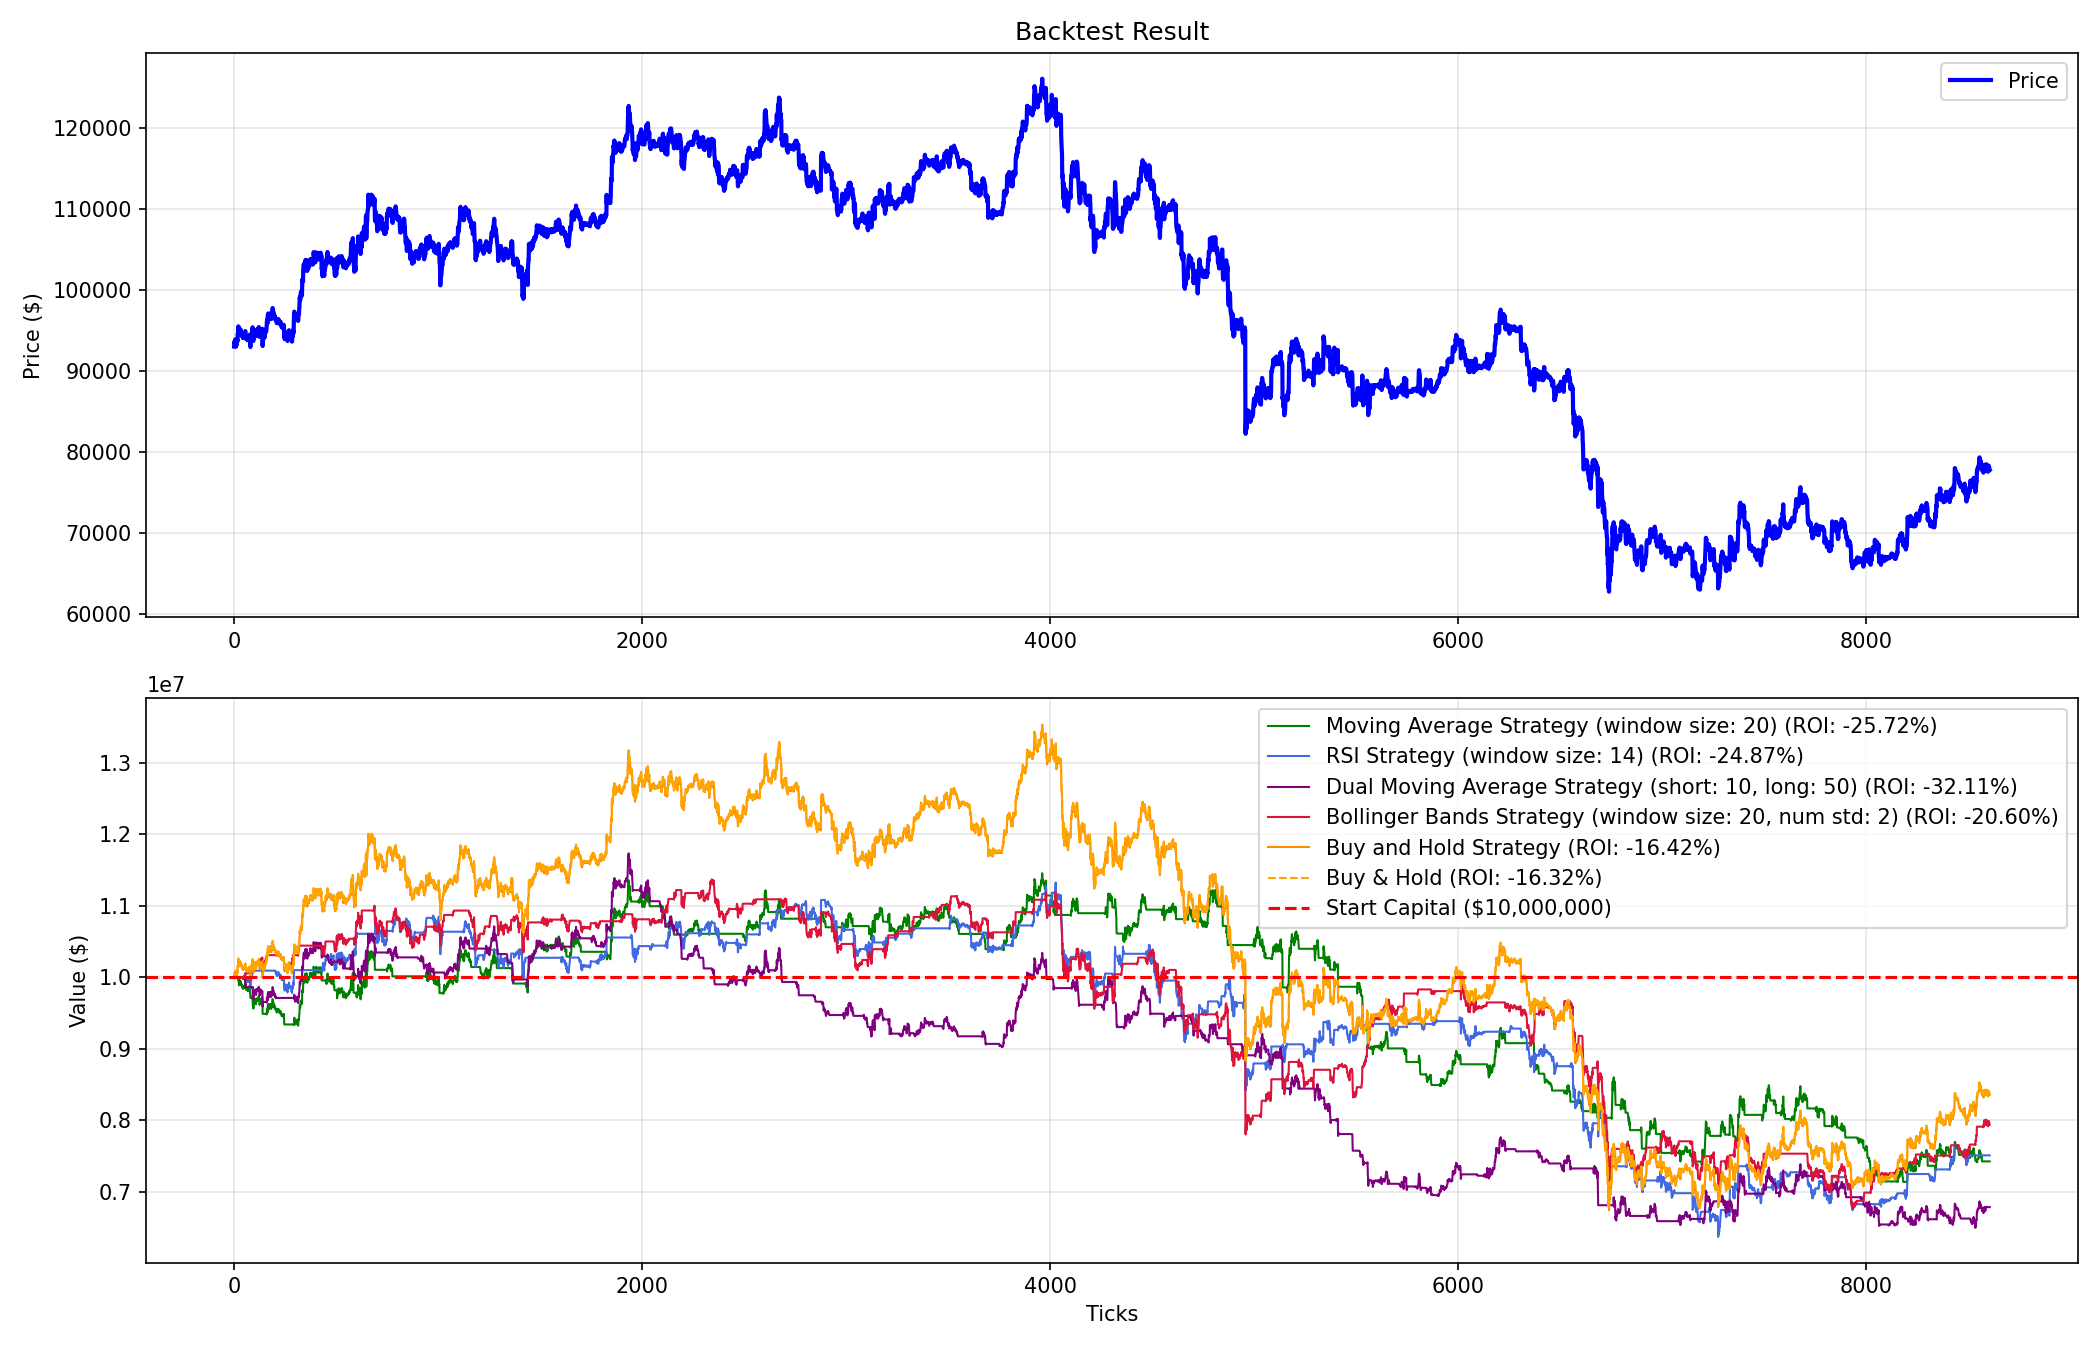
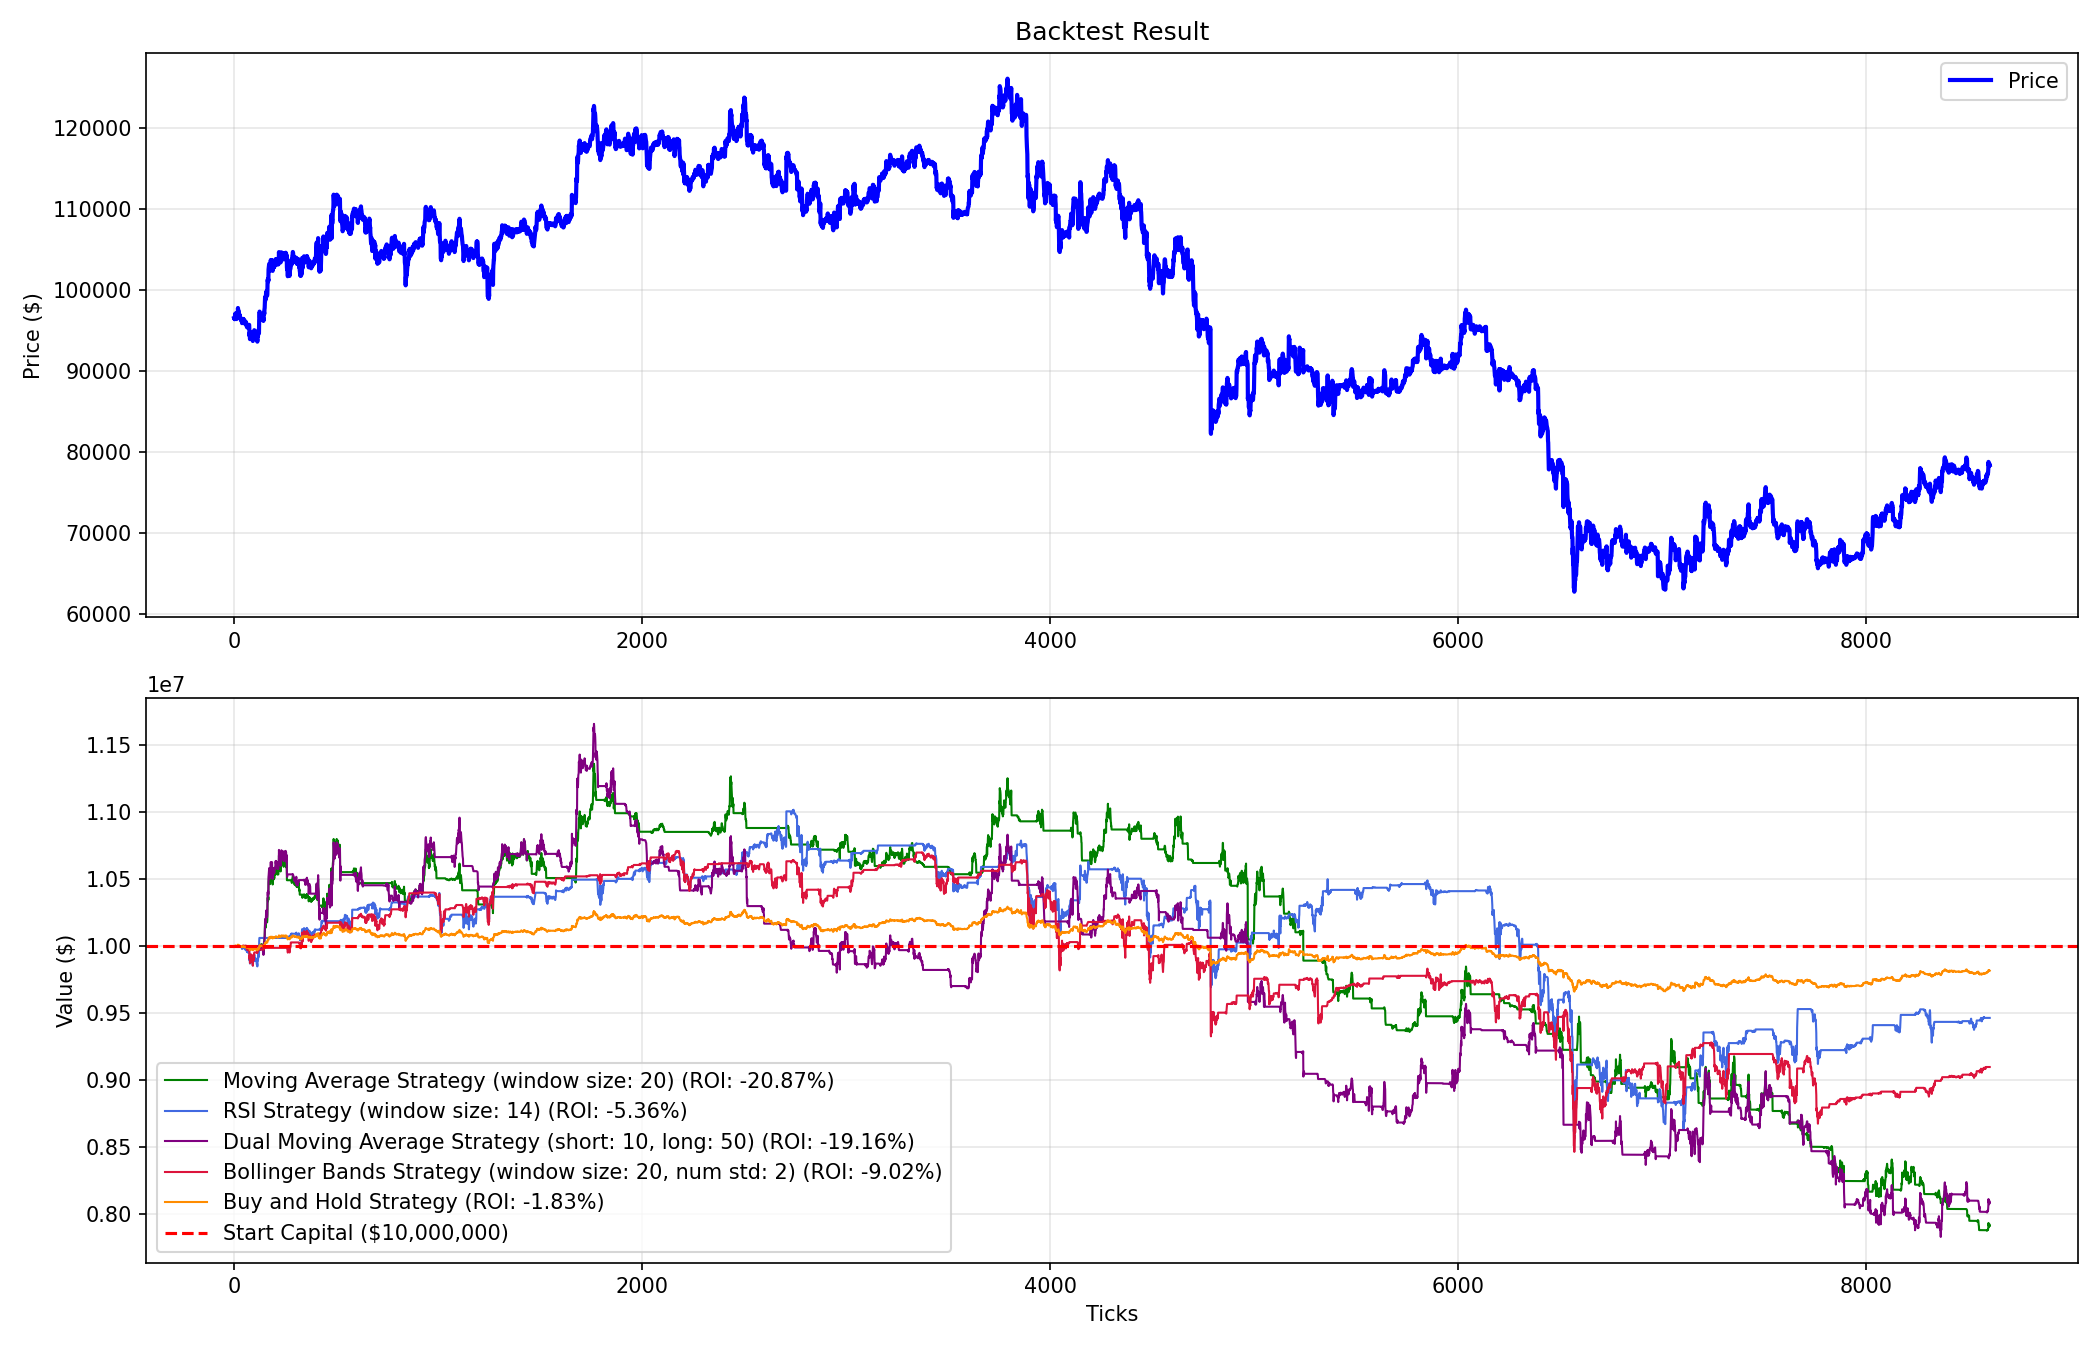
feat: config trade position size

diff --git a/main.py b/main.py
@@ -18,8 +18,30 @@ def run_cpp_backtest(csv_path):
         print("\nC++ Binary not found. Compile with: g++ -O2 -std=c++17 -o data/cpp/backtest.exe data/cpp/backtest.cpp")
         return None
 
+    cpp_args = [
+        binary,
+        csv_path,
+        "all",
+        str(CONFIG["backtest"]["initial_capital"]),
+        str(CONFIG["backtest"]["fraction_position"]),
+        str(CONFIG["transaction_cost"]),
+        str(CONFIG["metrics"]["trading_days_per_year"]),
+        str(CONFIG["metrics"]["hours_per_day"]),
+        str(CONFIG["metrics"]["interval_hours"]),
+        str(CONFIG["strategies"]["moving_average"]["window_size"]),
+        str(CONFIG["strategies"]["moving_average"]["threshold_buy"]),
+        str(CONFIG["strategies"]["moving_average"]["threshold_sell"]),
+        str(CONFIG["strategies"]["rsi"]["window_size"]),
+        str(CONFIG["strategies"]["rsi"]["oversold"]),
+        str(CONFIG["strategies"]["rsi"]["overbought"]),
+        str(CONFIG["strategies"]["dual_ma"]["window_short"]),
+        str(CONFIG["strategies"]["dual_ma"]["window_long"]),
+        str(CONFIG["strategies"]["bollinger"]["window_size"]),
+        str(CONFIG["strategies"]["bollinger"]["num_std"]),
+    ]
+
     result = subprocess.run(
-        [binary, csv_path, "all"],
+        cpp_args,
         capture_output=True,
         text=True
     )
@@ -113,7 +135,8 @@ def main():
     backtest_runner = backtest(
         charts_file=csv_path,
         strategies=strategies,
-        initial_capital=CONFIG["backtest"]["initial_capital"]
+        initial_capital=CONFIG["backtest"]["initial_capital"],
+        fraction_position=CONFIG["backtest"]["fraction_position"]
     )
 
     # Python backtest timer

diff --git a/backtest.py b/backtest.py
@@ -6,10 +6,11 @@ from tabulate import tabulate
 
 
 class backtest:
-    def __init__(self, charts_file, strategies, initial_capital):
+    def __init__(self, charts_file, strategies, initial_capital, fraction_position):
         self.charts_file = charts_file
         self.strategies = strategies
         self.initial_capital = initial_capital
+        self.fraction_position = fraction_position
         self.charts = None
         self.results = {}
 
@@ -51,7 +52,7 @@ class backtest:
                 signal_history.append(signal)
 
                 if signal == 'buy' and p.cash > 0:
-                    size = int(p.cash / chart_today)
+                    size = int(p.cash * self.fraction_position / chart_today)
                     if size > 0:
                         p.buy(size, chart_today)
                 elif signal == 'sell' and p.shares > 0:
@@ -134,7 +135,7 @@ class backtest:
                 linewidth=1
             )
 
-        ax2.plot(bandh_history, label=f'Buy & Hold (ROI: {bandh_roi:+.2f}%)', color='orange', linewidth=1, linestyle='--')
+        #ax2.plot(bandh_history, label=f'Buy & Hold (ROI: {bandh_roi:+.2f}%)', color='orange', linewidth=1, linestyle='--')
         ax2.axhline(y=self.initial_capital, color='red', linestyle='--', label=f'Start Capital (${self.initial_capital:,.0f})')
         ax2.set_xlabel('Ticks')
         ax2.set_ylabel('Value ($)')

diff --git a/config.py b/config.py
@@ -6,7 +6,8 @@ CONFIG = {
     },
     "transaction_cost": 0.001,            #Transaction Cost (0.1%)
     "backtest": {
-        "initial_capital": 10000000,   #Initial Capital
+        "initial_capital": 10000000, 
+        "fraction_position": 0.1  #Fraction of Capital to Invest per Trade
     },
     "strategies": {
         "buy_and_hold": {
